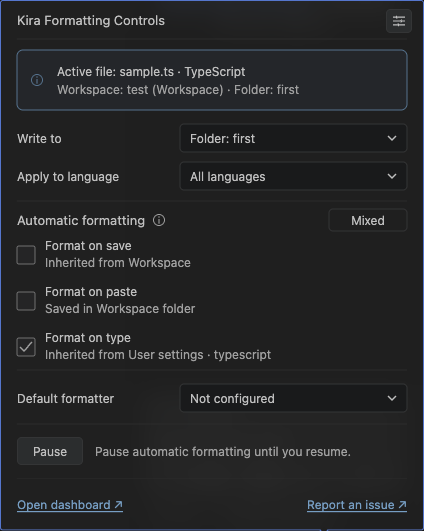
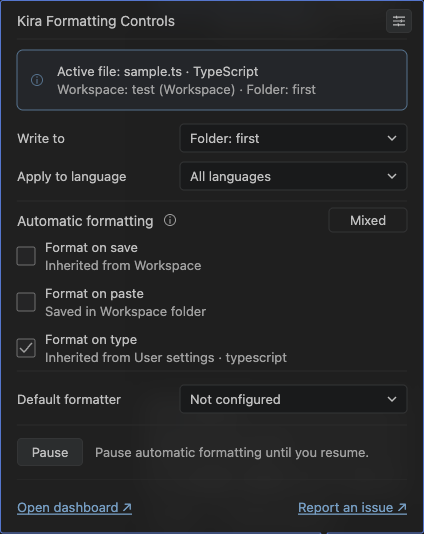
fix: enlarge card typography and center status summary

diff --git a/shared/status-artwork.ts b/shared/status-artwork.ts
@@ -101,19 +101,11 @@ export function statusArtwork(
   theme: CardTheme = "dark",
 ) {
   const p = palettes[theme];
-  const text = (
-    x: number,
-    y: number,
-    value: string,
-    size = 12,
-    color: string = p.fg,
-  ) =>
-    `<text x="${x}" y="${y}" font-size="${size}" fill="${color}">${escapeText(value)}</text>`;
   const centeredText = (
     x: number,
     y: number,
     value: string,
-    size = 12,
+    size = 13,
     color: string = p.fg,
     anchor: "start" | "middle" = "start",
   ) =>
@@ -133,7 +125,7 @@ export function statusArtwork(
     `<rect x="${x}" y="${y}" width="${w}" height="${h}" rx="${r}" stroke="${stroke}" fill="${fill}"/>`;
   const dropdown = (y: number, value: string) =>
     rect(168, y, 227, 28) +
-    centeredText(178, y + 14, shortened(value, 33)) +
+    centeredText(178, y + 14, shortened(value, 30)) +
     `<path d="M376 ${y + 12}l4 4 4-4" fill="none" stroke="${p.fg}" stroke-width="1.2"/>`;
   const svg = (height: number, contents: string, width = 400) =>
     `<svg xmlns="http://www.w3.org/2000/svg" width="${width}" height="${height}" viewBox="0 0 ${width} ${height}"><g font-family="-apple-system, BlinkMacSystemFont, Segoe WPC, Segoe UI, system-ui, Ubuntu, Droid Sans, sans-serif" font-weight="400">${contents}</g></svg>`;
@@ -175,8 +167,14 @@ export function statusArtwork(
         (context.flags[i]
           ? `<path d="M8 ${y + 18}l4 4 8-9" stroke="${p.muted}" stroke-width="1.4" fill="none"/>`
           : "") +
-        text(33, y + 13, `Format on ${label}`) +
-        text(33, y + 30, shortened(sourceNotes[i] ?? "", 59), 12, p.muted)
+        centeredText(33, y + 9, `Format on ${label}`) +
+        centeredText(
+          33,
+          y + 27,
+          shortened(sourceNotes[i] ?? "", 54),
+          13,
+          p.muted,
+        )
       );
     })
     .join("");
@@ -207,7 +205,7 @@ export function statusArtwork(
     ),
     header: image(
       28,
-      centeredText(5, 14, "Kira Formatting Controls", 13),
+      centeredText(5, 14, "Kira Formatting Controls", 14),
       "Kira Formatting Controls",
       270,
     ),
@@ -216,8 +214,8 @@ export function statusArtwork(
       line(1) +
         rect(5, 12, 390, 60, p.focus, p.info, 6) +
         infoGlyph(25, 42, p.focus) +
-        centeredText(45, 33, shortened(file, 56)) +
-        centeredText(45, 51, shortened(workspace, 56), 12, p.muted),
+        centeredText(45, 33, shortened(file, 51)) +
+        centeredText(45, 51, shortened(workspace, 51), 13, p.muted),
       `${file}. ${workspace}.`,
     ),
     scopes: image(
@@ -230,24 +228,24 @@ export function statusArtwork(
       `Write to: ${scope}. Apply to language: ${language}. Read-only.`,
     ),
     heading: image(
-      26,
-      text(5, 18, "Automatic formatting", 13),
+      28,
+      centeredText(5, 14, "Automatic formatting", 14),
       "Automatic formatting",
-      136,
+      148,
     ),
     state: image(
-      26,
-      rect(0, 2, 78, 22, p.border, "none") +
-        centeredText(39, 13, state, 12, p.fg, "middle"),
+      28,
+      rect(0, 2, 78, 24, p.border, "none") +
+        centeredText(39, 14, state, 13, p.fg, "middle"),
       `Automatic formatting: ${state}`,
       78,
     ),
     summary: image(
-      26,
-      text(5, 18, "Automatic formatting", 13) +
-        infoGlyph(147, 13, p.muted) +
-        rect(317, 2, 78, 22, p.border, "none") +
-        centeredText(356, 13, state, 12, p.fg, "middle"),
+      28,
+      centeredText(5, 14, "Automatic formatting", 14) +
+        infoGlyph(158, 14, p.muted) +
+        rect(317, 2, 78, 24, p.border, "none") +
+        centeredText(356, 14, state, 13, p.fg, "middle"),
       `Automatic formatting: ${state}`,
     ),
     formatting: image(
@@ -271,7 +269,7 @@ export function statusArtwork(
           33,
           14,
           context.paused ? "Resume" : "Pause",
-          12,
+          13,
           context.canPause ? p.fg : p.muted,
           "middle",
         ),
@@ -281,24 +279,24 @@ export function statusArtwork(
     pauseInset: image(28, "", "", 5),
     pauseCaption: image(
       28,
-      centeredText(12, 14, pauseCaption, 12, p.muted),
+      centeredText(12, 14, pauseCaption, 13, p.muted),
       pauseCaption,
       329,
     ),
     // Reserve height so the rule stays close to Pause within the native line box.
     separator: image(11, line(0.5), ""),
     dashboard: image(
-      24,
-      `<text x="5" y="12" dominant-baseline="central" font-size="12" textLength="106" lengthAdjust="spacingAndGlyphs" fill="${p.accent}" text-decoration="underline">Open dashboard ↗</text>`,
+      26,
+      `<text x="5" y="13" dominant-baseline="central" font-size="13" textLength="115" lengthAdjust="spacingAndGlyphs" fill="${p.accent}" text-decoration="underline">Open dashboard ↗</text>`,
       "Open dashboard ↗",
-      116,
+      125,
     ),
-    footerGap: image(32, "", "", 174),
+    footerGap: image(34, "", "", 156),
     issue: image(
-      24,
-      `<text x="105" y="12" dominant-baseline="central" text-anchor="end" font-size="12" textLength="100" lengthAdjust="spacingAndGlyphs" fill="${p.accent}" text-decoration="underline">Report an issue ↗</text>`,
+      26,
+      `<text x="114" y="13" dominant-baseline="central" text-anchor="end" font-size="13" textLength="109" lengthAdjust="spacingAndGlyphs" fill="${p.accent}" text-decoration="underline">Report an issue ↗</text>`,
       "Report an issue ↗",
-      110,
+      119,
     ),
   };
 }

diff --git a/test/status.ts b/test/status.ts
@@ -36,6 +36,10 @@ export async function reviewStatus(
       contextOffsetY: number;
       pauseOffsetX: number;
       pauseOffsetY: number;
+      summaryHeadingOffsetY: number;
+      summaryIconOffsetY: number;
+      summaryBadgeOffsetY: number;
+      summaryFits: boolean;
       headerFits: boolean;
       captionFits: boolean;
     }>
@@ -60,7 +64,7 @@ export async function reviewStatus(
       return root;
     }
     return fixtures.map(art => {
-      const badge = mount(art.state), context = mount(art.context), pause = mount(art.pause), captionImage = mount(art.pauseCaption), header = mount(art.header);
+      const badge = mount(art.state), context = mount(art.context), pause = mount(art.pause), captionImage = mount(art.pauseCaption), header = mount(art.header), summary = mount(art.summary);
       try {
         const badgeText = badge.querySelector("text").getBBox();
         const file = Array.from(context.querySelectorAll("text")).find(text => text.textContent.startsWith("Active file:")).getBBox();
@@ -68,16 +72,24 @@ export async function reviewStatus(
         const pauseText = pause.querySelector("text").getBBox();
         const caption = captionImage.querySelector("text").getBBox();
         const title = header.querySelector("text").getBBox();
+        const summaryText = summary.querySelectorAll("text");
+        const summaryHeading = summaryText[0].getBBox();
+        const summaryBadge = summaryText[1].getBBox();
+        const summaryIcon = summary.querySelector("circle").getBBox();
         return {
           badgeOffsetX: badgeText.x + badgeText.width/2 - 39,
-          badgeOffsetY: badgeText.y + badgeText.height/2 - 13,
+          badgeOffsetY: badgeText.y + badgeText.height/2 - 14,
           contextOffsetY: (file.y + workspace.y + workspace.height)/2 - 42,
           pauseOffsetX: pauseText.x + pauseText.width/2 - 33,
           pauseOffsetY: pauseText.y + pauseText.height/2 - 14,
+          summaryHeadingOffsetY: summaryHeading.y + summaryHeading.height/2 - 14,
+          summaryIconOffsetY: summaryIcon.y + summaryIcon.height/2 - 14,
+          summaryBadgeOffsetY: summaryBadge.y + summaryBadge.height/2 - 14,
+          summaryFits: summaryHeading.x + summaryHeading.width < summaryIcon.x,
           headerFits: title.x + title.width <= art.header.width,
           captionFits: caption.x + caption.width <= art.pauseCaption.width - 2,
         };
-      } finally { badge.remove(); context.remove(); pause.remove(); captionImage.remove(); header.remove(); }
+      } finally { badge.remove(); context.remove(); pause.remove(); captionImage.remove(); header.remove(); summary.remove(); }
     });
   })(${JSON.stringify(fixtures)})`);
   writeFileSync(
@@ -91,6 +103,9 @@ export async function reviewStatus(
       measurement.contextOffsetY,
       measurement.pauseOffsetX,
       measurement.pauseOffsetY,
+      measurement.summaryHeadingOffsetY,
+      measurement.summaryIconOffsetY,
+      measurement.summaryBadgeOffsetY,
     ])
       assert.ok(
         Math.abs(offset) <= 1,
@@ -98,6 +113,10 @@ export async function reviewStatus(
       );
     assert.ok(measurement.headerFits, "Full extension name fits");
     assert.ok(measurement.captionFits, "Both Pause/Resume captions fit");
+    assert.ok(
+      measurement.summaryFits,
+      "The larger heading clears the info icon",
+    );
   }
 
   const button = page.getByRole("button", {
@@ -258,19 +277,19 @@ export async function reviewStatus(
   );
   assert.equal(
     dashboardBounds.width,
-    116,
+    125,
     "Dashboard hit area fits the text and padding",
   );
   assert.equal(
     issueBounds.width,
-    110,
+    119,
     "Issue hit area fits the text and padding",
   );
-  assert.equal(dashboardBounds.height, 24);
-  assert.equal(issueBounds.height, 24);
+  assert.equal(dashboardBounds.height, 26);
+  assert.equal(issueBounds.height, 26);
   const gutter = {
     x: dashboardBounds.x + dashboardBounds.width + 20,
-    y: dashboardBounds.y + 12,
+    y: dashboardBounds.y + 13,
   };
   assert.equal(
     await hover.evaluate(
@@ -318,9 +337,9 @@ export async function reviewStatus(
       Math.abs(pauseBottomGap - formatterPadding) <= 2,
     "Pause/Resume padding matches Default formatter",
   );
-  const footerTopGap = dashboardBounds.y + 12 - (separatorBounds.y + 0.5);
+  const footerTopGap = dashboardBounds.y + 13 - (separatorBounds.y + 0.5);
   const footerBottomGap =
-    hovered.y + hovered.height - 1 - (dashboardBounds.y + 12);
+    hovered.y + hovered.height - 1 - (dashboardBounds.y + 13);
   assert.ok(
     Math.abs(footerTopGap - footerBottomGap) <= 2,
     "Footer text is centered between its separator and the frame",

diff --git a/docs/status-controls.md b/docs/status-controls.md
@@ -33,7 +33,7 @@ Read-only dropdowns use standard outlined fields with normal text and arrows. Ch
 
 VS Code's public `StatusBarItem.tooltip` accepts Markdown, images and command links; arbitrary form styling is sanitized. Locally generated inert SVG images preserve the approved layout, with native links for navigation and help. No scripts, external images, rendering network calls or rendering files are used.
 
-The 400px content width follows the approved reference. The title and section heading use 13px regular text and body/control text 12px. Read-only fields have 28px outlines and the fixed status badge has a 22px outline. Setting rows use a 46px rhythm with 10px between each checkbox and its text. Checked boxes show an outlined tick; unchecked boxes retain the same neutral surface. High-contrast themes retain distinct ticks and outlines. The file/workspace block and context info icon are vertically centered, with a 14px gap between the icon and text. The formatting heading, info glyph and fixed-width status badge share one hover-only image. The badge explanation remains discoverable through the visible info icon. The filled Pause/Resume button retains fixed dimensions across both states. Underlined footer artwork shares the same content width and aligns to the card edges independently of VS Code's native table-column sizing.
+The 400px content width follows the approved reference. The title and section heading use 14px regular text and body/control text 13px, including source notes, captions and footer links. Read-only fields have 28px outlines and the fixed status badge has a 24px outline. Setting rows use a 46px rhythm with 10px between each checkbox and its text. Checked boxes show an outlined tick; unchecked boxes retain the same neutral surface. High-contrast themes retain distinct ticks and outlines. The file/workspace block and context info icon are vertically centered, with a 14px gap between the icon and text. The formatting heading, info glyph and fixed-width status badge share one hover-only image and the same vertical center, rather than mixing a text baseline with icon coordinates. The badge explanation remains discoverable through the visible info icon. The filled Pause/Resume button retains fixed dimensions across both states. Underlined footer artwork shares the same content width and aligns to the card edges independently of VS Code's native table-column sizing. Its text-sized hit areas accommodate the larger font while leaving the gutter unlinked.
 
 Transparent artwork reveals the native hover surface. Dark, light, high-contrast and high-contrast-light palettes follow the theme kind; arbitrary custom theme colors/fonts are not available inside the image renderer. Native links follow the editor's own hover/focus styling. The public Markdown tooltip cannot reproduce Copilot's custom grey icon-button hover fill or enforce a custom hover underline. This limitation does not change layout or actions.
 

diff --git a/CHANGELOG.md b/CHANGELOG.md
@@ -2,6 +2,8 @@
 
 ## 0.5.0 — Unreleased
 
+Increased every status-card font by 1px: 14px headings and 13px body, fields, source notes, captions, status and links. Aligned Automatic formatting, its info icon and the status badge to a shared vertical center. Expanded footer hit areas only enough for the larger labels and retained an unlinked gutter.
+
 Increased the centered Settings glyph by another 10% to 12.2px, retaining the same outlined button dimensions.
 
 Unified the file-context and automatic-formatting info icons with the same 12px vector glyph, preserving their blue/gray colors and vertical centering. Moved the formatting icon closer to its label.
